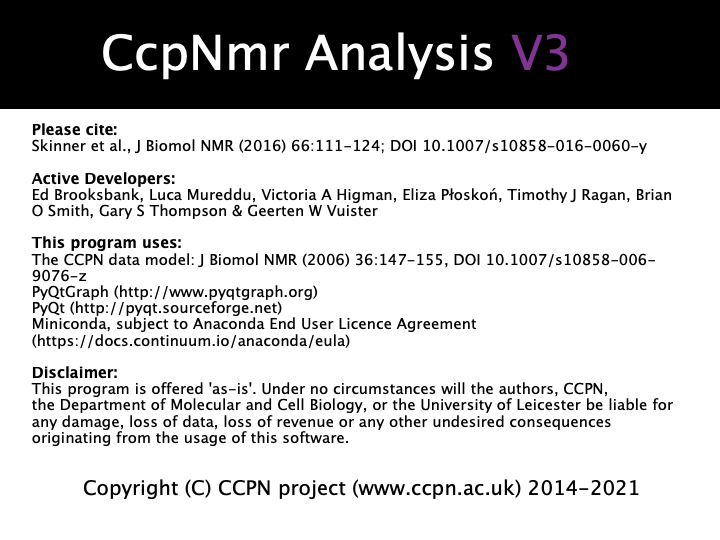
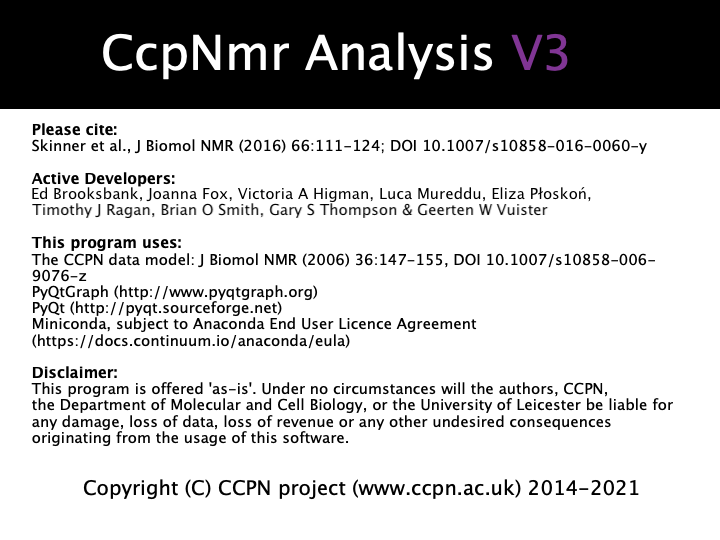
updated the author list and the about image

Changed region(s): [[0.0306, 0.3259, 0.9472, 0.4148]]

diff --git a/src/python/ccpn/framework/Framework.py b/src/python/ccpn/framework/Framework.py
@@ -11,7 +11,7 @@ __reference__ = ("Skinner, S.P., Fogh, R.H., Boucher, W., Ragan, T.J., Mureddu, 
 # Last code modification
 #=========================================================================================
 __modifiedBy__ = "$modifiedBy: Ed Brooksbank $"
-__dateModified__ = "$dateModified: 2021-03-25 18:46:36 +0000 (Thu, March 25, 2021) $"
+__dateModified__ = "$dateModified: 2021-03-30 19:40:41 +0100 (Tue, March 30, 2021) $"
 __version__ = "$Revision: 3.0.3 $"
 #=========================================================================================
 # Created
@@ -80,6 +80,7 @@ from ccpnmodel.ccpncore.memops.metamodel import Util as metaUtil
 from ccpn.util.decorators import logCommand
 from ccpn.core.lib.ContextManagers import catchExceptions, undoBlockWithoutSideBar
 from ccpn.ui.gui.widgets.Menu import SHOWMODULESMENU, CCPNMACROSMENU, TUTORIALSMENU, CCPNPLUGINSMENU, PLUGINSMENU
+from ccpn.framework.Version import authors
 
 import faulthandler
 
@@ -126,6 +127,39 @@ def _ccpnExceptionhook(type, value, tback):
 sys.excepthook = _ccpnExceptionhook
 
 
+def _strList(inlist:list, maxlen:int=80) -> list:
+    outstr = ''
+    # skip = False  # print commas and ampersand
+    lencount = maxlen
+
+    nameList = sorted(inlist, key=lambda name: name.split()[-1])
+
+    outList = []
+
+    for cName in nameList[:-1]:
+        skip = False
+        if len(outstr + cName) > lencount and cName not in nameList[-2:]:
+            outstr += cName + ', '
+            outList.append(outstr)
+            lencount += maxlen
+            skip = True
+            outstr = ''
+        elif cName not in nameList[-2:]:
+            outstr += cName + ', '
+        else:
+            outstr += cName
+
+    if len(nameList) == 1:
+        outstr = nameList[0]
+    else:
+        outstr = outstr + ' & ' + nameList[-1]
+
+    if outstr:
+        outList.append(outstr)
+
+    return outList
+
+
 def printCreditsText(fp, programName, version):
     """Initial text to terminal """
     from ccpn.framework.PathsAndUrls import ccpnLicenceUrl
@@ -140,13 +174,14 @@ def printCreditsText(fp, programName, version):
     lines.append("")
 
     try:
-        if isinstance(__credits__, str):
-            lines.append("Developed by: %s" % __credits__)
-        else:
-            if isinstance(__credits__, tuple):
-                lines.append("Developed by: %s" % __credits__[0])
-                for crLine in __credits__[1:]:
-                    lines.append("              %s" % crLine)
+        prefix = "Active Developers:   "
+        if isinstance(authors, str):
+            lines.append("%s%s" % (prefix, authors))
+        elif isinstance(authors, (list, tuple)):
+            authorList = _strList(authors, maxlen=60)
+            lines.append("%s%s" % (prefix, authorList[0]))
+            for crLine in authorList[1:]:
+                lines.append("%s%s" % (' ' * len(prefix), crLine))
     except:
         pass
 

diff --git a/src/python/ccpn/ui/gui/popups/AboutPopup.py b/src/python/ccpn/ui/gui/popups/AboutPopup.py
@@ -13,8 +13,8 @@ __reference__ = ("Skinner, S.P., Fogh, R.H., Boucher, W., Ragan, T.J., Mureddu, 
 #=========================================================================================
 # Last code modification
 #=========================================================================================
-__modifiedBy__ = "$modifiedBy: Luca Mureddu $"
-__dateModified__ = "$dateModified: 2021-01-24 17:58:25 +0000 (Sun, January 24, 2021) $"
+__modifiedBy__ = "$modifiedBy: Ed Brooksbank $"
+__dateModified__ = "$dateModified: 2021-03-30 19:40:42 +0100 (Tue, March 30, 2021) $"
 __version__ = "$Revision: 3.0.3 $"
 #=========================================================================================
 # Created
@@ -40,7 +40,8 @@ from ccpn.ui.gui.popups.Dialog import CcpnDialog      # ejb
 TEXT = ''' Copyright (C) CCPN project (www.ccpn.ac.uk) 2014 - 2021
 | 
             **Active Developers:**
-            Ed Brooksbank, Luca Mureddu, Victoria A Higman, Eliza Płoskoń, Timothy J Ragan, Brian O Smith, Gary S Thompson & Geerten W Vuister
+            Ed Brooksbank, Joanna Fox, Victoria A Higman, Luca Mureddu, Eliza Płoskoń,
+            Timothy J Ragan, Brian O Smith, Gary S Thompson & Geerten W Vuister
 
 
             **This program uses:**

diff --git a/src/python/ccpn/framework/Version.py b/src/python/ccpn/framework/Version.py
@@ -14,7 +14,7 @@ __reference__ = ("Skinner, S.P., Fogh, R.H., Boucher, W., Ragan, T.J., Mureddu, 
 # Last code modification
 #=========================================================================================
 __modifiedBy__ = "$modifiedBy: Ed Brooksbank $"
-__dateModified__ = "$dateModified: 2021-02-23 13:01:08 +0000 (Tue, February 23, 2021) $"
+__dateModified__ = "$dateModified: 2021-03-30 19:40:42 +0100 (Tue, March 30, 2021) $"
 __version__ = "$Revision: 3.0.3 $"
 #=========================================================================================
 # Created
@@ -30,5 +30,6 @@ applicationVersion = '3.0.4'
 
 revision = '3'
 
-authors = __credits__
+authors = ('Ed Brooksbank', 'Joanna Fox', 'Victoria A Higman', 'Luca Mureddu', 'Eliza Płoskoń',
+           'Timothy J Ragan', 'Gary S Thompson', 'Brian O Smith', 'Geerten W Vuister')
 projectName = 'CCPN'
